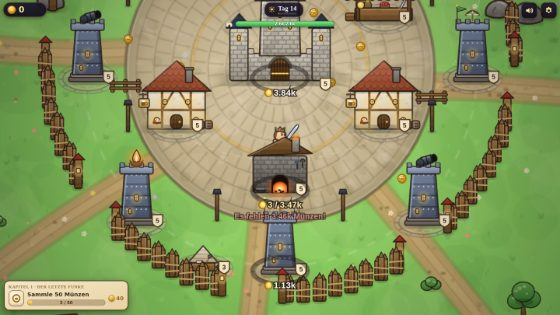
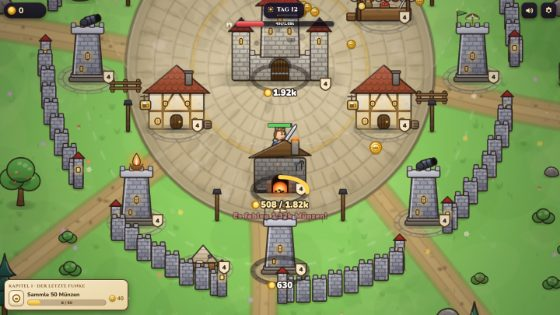
Doku: Auto-Update, Markt/Mauer und neue Screenshots
Claude-Session: https://claude.ai/code/session_01AgnXXhNdpeKxzSGXkkYM84

diff --git a/README.md b/README.md
@@ -85,6 +85,42 @@ sudo ./deploy/uninstall.sh     # nur die Kingshot-Site entfernen
 sudo ./deploy/uninstall.sh --purge   # zusätzlich das Webroot löschen
 ```
 
+### 🔄 Auto-Update — neue Versionen kommen von selbst
+
+```bash
+sudo ./deploy/install-autoupdate.sh              # prüft alle 5 Minuten
+sudo ./deploy/install-autoupdate.sh --interval 15
+sudo ./deploy/install-autoupdate.sh --uninstall
+```
+
+Danach genügt ein Push auf GitHub — der Rest passiert automatisch:
+
+1. Der Server prüft im Takt, ob es eine neue Version gibt, und holt sie.
+2. Spieldateien werden neu deployt und mit einem Versions-Stempel versehen.
+3. **Laufende Spiele erkennen die neue Version und laden sich selbst neu** —
+   dank Auto-Save geht es exakt an derselben Stelle weiter, sogar mitten
+   in einer Bossnacht.
+
+**Bewusst ressourcenschonend gebaut:**
+
+- Der Check ist ein einziger winziger `git ls-remote`-Abgleich des Commit-Hashs
+  (kein Fetch, kein Clone). Ist nichts Neues da, passiert **exakt gar nichts** —
+  kein Download, kein Schreibzugriff, kein Log-Eintrag. Gemessen: **~30 ms** pro
+  Leerlauf-Prüfung, ein vollständiges Update dauert ~130 ms.
+- Der systemd-Timer läuft mit `Nice=10` und `IOSchedulingClass=idle`, kann deinen
+  Webserver also nie ausbremsen. Ohne systemd wird automatisch ein Cron-Job genutzt.
+- `flock` verhindert überlappende Läufe; das Log wird automatisch gekürzt.
+- Blockieren lokale Änderungen im Repo den Fast-Forward, sagt das Log **einmal**
+  klar, was los ist (kein Retry-Spam) — und sobald du aufgeräumt hast, wird das
+  Update automatisch nachgeholt.
+- Im Browser fragt das Spiel nur alle 5 Minuten eine ~30-Byte-Datei ab, und das
+  nur im Vordergrund. Eine Reload-Bremse schließt Endlos-Neuladen aus.
+
+```bash
+systemctl status kingshot-update.timer   # läuft es?
+tail -f /var/log/kingshot-update.log     # was ist passiert?
+```
+
 ### Schnell lokal testen (ohne nginx)
 
 ```bash
@@ -156,7 +192,12 @@ rotierende, immer stärkere Bosse und generierte Meilenstein-Quests. In der Chro
 
 ## 🛠 Technik
 
-- Vanilla JS + Canvas 2D, ~60 FPS auch auf Mobilgeräten (Sprite-Caching, Spatial-Hashing, Objekt-Pools)
+- Vanilla JS + Canvas 2D, flüssig auch auf Mobilgeräten (Sprite-Caching, Spatial-Hashing, Objekt-Pools)
+- **Automatische Qualitätsanpassung:** Bricht die Bildrate ein, senkt das Spiel die
+  Renderauflösung stufenweise und hebt sie wieder, sobald es ruhiger wird — schwache
+  Handys bleiben spielbar, starke behalten volle Schärfe
+- Nacht-Beleuchtung über einen Lichtpuffer mit einem Drittel Auflösung
+  (spart ~90 % Füllrate, ohne sichtbaren Unterschied)
 - Sämtliche Grafiken werden **prozedural** gezeichnet (kein einziges Bild-Asset) — mit Ziegel-,
   Holz- und Stein-Texturen, Schindeldächern, weichen Schatten und Glanzlichtern
 - UI komplett mit **eigenen SVG-Icons** (keine Emojis)
@@ -167,16 +208,23 @@ rotierende, immer stärkere Bosse und generierte Meilenstein-Quests. In der Chro
 ## 📂 Projektstruktur
 
 ```
-index.html            Einstieg & HUD
+index.html            Einstieg, HUD & SVG-Icon-Sammlung
 css/style.css         UI-Design (Pergament & Gold)
-js/config.js          Balance & Daten: Gebäude, Waffen, Monster, Bosse, Kapitel, Quests
-js/core.js            Utilities, Audio-Synth, Joystick, Speicher-I/O
+js/config.js          Balance & Daten: Gebäude, Waffen, Monster, Bosse, Kapitel, Quests, Markt, Mauer
+js/core.js            Utilities, Audio-Synth, Joystick, Speicher-I/O, Auto-Update-Erkennung
 js/art.js             Prozedurale Grafik: alle Sprites, Boden, Requisiten
 js/entities.js        Spieler, Monster-KI, Münzen, Projektile, Partikel
-js/systems.js         Bauplatten & Einzahlung, Türme, Produktion, Tag/Nacht-Direktor, Quests
-js/ui.js              HUD, Toasts, Banner, Story-Overlays, Menü
-js/game.js            Game-Loop, Renderer, Kamera, Licht, Auto-Save
-deploy/               install.sh · update.sh · uninstall.sh · serve-lokal.sh
+js/systems.js         Bauplatten & Einzahlung, Türme, Produktion, Mauer, Markt, Tag/Nacht, Quests
+js/ui.js              HUD, Toasts, Banner, Story-Overlays, Menü, Markt-Panel
+js/game.js            Game-Loop, Renderer, Kamera, Licht, Auto-Save, Auto-Qualität
+
+deploy/install.sh             nginx-Site + HTTPS/Certbot + Härtung
+deploy/install-autoupdate.sh  Auto-Update einrichten (systemd-Timer / Cron)
+deploy/auto-update.sh         der eigentliche GitHub-Check (wird vom Timer gerufen)
+deploy/update.sh              Update manuell einspielen
+deploy/stamp-version.sh       Cache-Busting-Stempel + version.json
+deploy/uninstall.sh           alles wieder entfernen
+deploy/serve-lokal.sh         schneller lokaler Test ohne nginx
 ```
 
 Viel Spaß beim Verteidigen, König! ⚔
